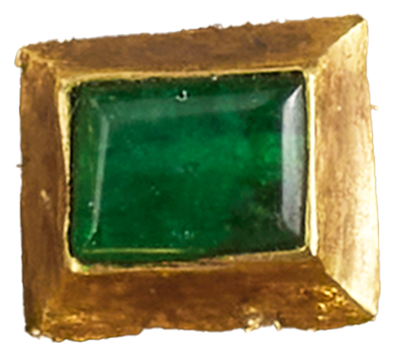
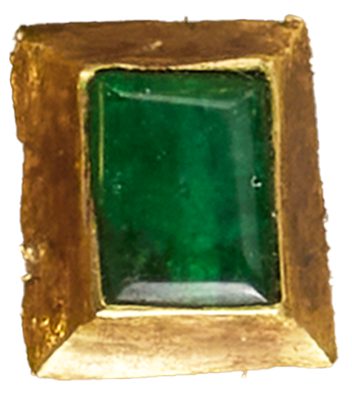
feat: right positions for the drop boxes

diff --git a/public/data/book-restauration-data.js b/public/data/book-restauration-data.js
@@ -4,7 +4,7 @@ const popUpData = {
             "name": "Émeraude",
             "image": "../../public/images/game/gems/emeraude.png",
             "text": "Les émeraudes de couleur verte symbolisent l’espérance et la vie éternelle. Elles sont très recherchées au Moyen Âge. Avant la découverte de l’Amérique et l’arrivée en Europe des émeraudes de Colombie, elles sont importées d’Égypte et d’Orient. Les inventaires de la Sainte-Chapelle mentionnent des émeraudes de diverses grandeurs et notamment une « grosse prime » (émeraude de grande taille, sculptée en rectangle) qui correspond très certainement à la pierre au centre de la bordure inférieure.",
-            "dropbox": [30, 20]
+            "dropbox": [47, 85]
         },
         {
             "name": "Gros saphir",
@@ -13,31 +13,31 @@ const popUpData = {
             
             La pierre au coin supérieur droit n’est pas un saphir mais une cordiérite. Il s’agit d’une intaille antique (sculptée en creux, représentant un couple), posée à l’envers pour dissimuler sa gravure.`,
             
-            "dropbox": [35, 25]
+            "dropbox": [62, 10]
         },
         {
             "name": "Rubis",
             "image": "../../public/images/game/gems/rubis.png",
             "text": "Même si elles sont assez proches en taille et en couleur, les pierres rouges sont de deux types : des rubis (coridon ou oxyde d’aluminium coloré par le chrome) et des spinelles (oxyde de magnésium et d’aluminium). Elles symbolisent souvent l’amour divin, le martyre et la Passion du Christ.",
-            "dropbox": [40, 30]
+            "dropbox": [37, 85]
         },
         {
             "name": "Spinelle",
             "image": "../../public/images/game/gems/spinelle.png",
             "text": "Même si elles sont assez proches en taille et en couleur, les pierres rouges sont de deux types : des rubis (coridon ou oxyde d’aluminium coloré par le chrome) et des spinelles (oxyde de magnésium et d’aluminium). Elles symbolisent souvent l’amour divin, le martyre et la Passion du Christ.",
-            "dropbox": [45, 35]
+            "dropbox": [47, 9]
         },
         {
             "name": "Perle",
             "image": "../../public/images/game/gems/perle.png",
             "text": "Prisées au Moyen Âge pour leur couleur, symbole de pureté, les perles sont récoltées dans des huîtres et viennent, d’après les inventaires de la Sainte-Chapelle, d’Écosse ou d’Inde. Sur le plat de la reliure, elles alternent avec les pierres et sont tantôt seules, tantôt groupées par paire.",
-            "dropbox": [50, 40]
+            "dropbox": [41, 38]
         },
         {
-            "name": "Saphirs",
+            "name": "Saphir",
             "image": "../../public/images/game/gems/calcedoine.png",
             "text": "Les saphirs, ici de couleur bleue, sont de tailles diverses et alternent avec les autres pierres. Ils présentent des qualités et des brillances différentes. Ils proviennent, comme les gros saphirs des angles, d’Inde ou de Ceylan (Sri Lanka).",
-            "dropbox": [55, 45]
+            "dropbox": [59, 78]
         }
     ]
 }

diff --git a/styles/views/book-restauration.css b/styles/views/book-restauration.css
@@ -22,7 +22,7 @@
 }
 
 .intro-window {
-    z-index: 2;
+    z-index: 3;
     position: absolute;
     top: 50%;
     left: 50%;
@@ -155,7 +155,7 @@
         position: absolute;
         width: 8vmin;
         height: 8vmin;
-        border: 2px dashed rgba(255, 255, 255, 0.5);
+        border: 3px dashed rgba(255, 255, 255, 1);
         border-radius: 50%;
         /* background-color: rgba(255, 255, 255, 0.2); */
         /* pointer-events: none; */
@@ -224,7 +224,7 @@
 .emplacement-gems{
     position: absolute;
     width: 38%;
-    z-index: 2;
+    z-index: 1;
     top: 5rem;
     right: 38rem;
 }

diff --git a/scripts/views/book-restauration.js b/scripts/views/book-restauration.js
@@ -157,7 +157,7 @@ function addGems() {
               left: endBox.left - (endBox.width - startBox.width * 0.5) / 2,
               top: endBox.top - (endBox.height - startBox.height * 0.5) / 2,
               duration: 1,
-              scale: 0.5,
+              scale: 0.7,
               rotate: 0,
               ease: 'elastic.out(.45)',
             })
